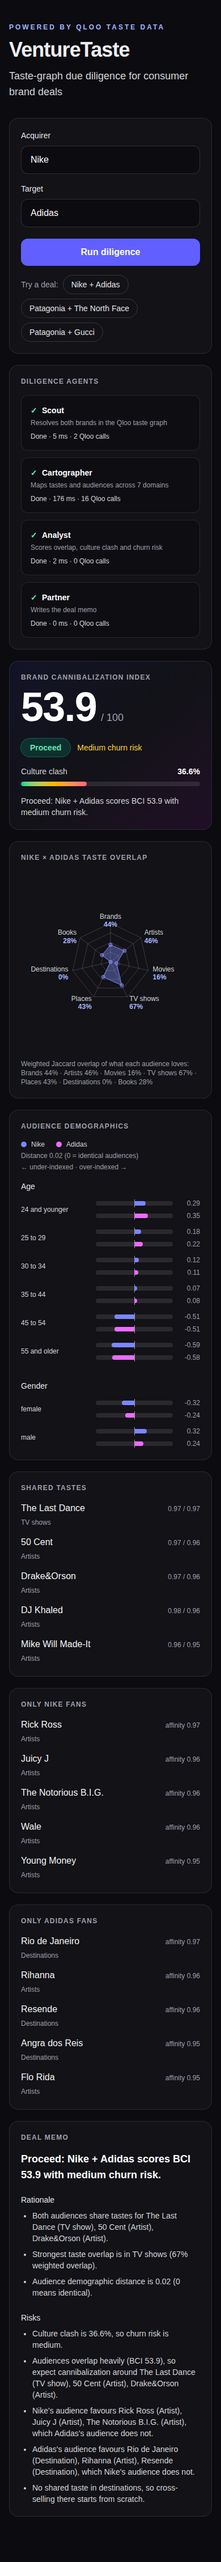
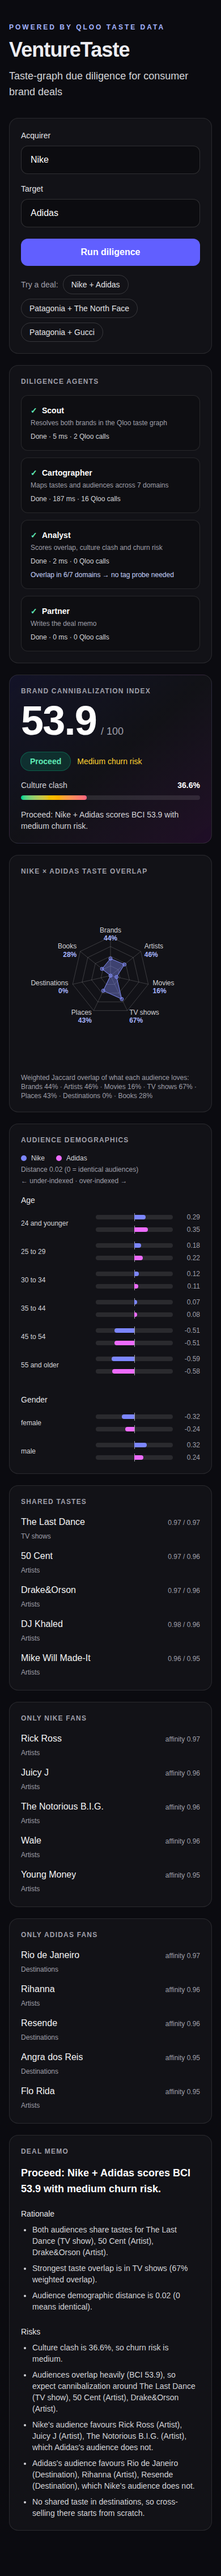
readme: analyst decision, new screenshots

diff --git a/README.md b/README.md
@@ -28,12 +28,12 @@ Responses are cached on disk (`.cache/qloo`), and HTTP 429 is retried with backo
 
 1. **Scout** resolves both brand names to Qloo entities (2 calls).
 2. **Cartographer** fetches insights for all 7 domains plus demographics for both brands (16 calls, in parallel threads). 18 Qloo calls per run with the two searches.
-3. **Analyst** scores the pair with `api/scoring.py` (pure code, no calls).
+3. **Analyst** scores the pair with `api/scoring.py` (pure code) and then decides: if at least 4 of the 7 domains have zero taste overlap, it asks Qloo for each brand's tag affinities (2 extra calls) and reports the top 5 tags both audiences share as "bridging tastes", ranked by the weaker of the two affinities. Bridges are evidence only and never change the BCI, clash score or verdict. Its trace item carries a `decision` string saying which way it went.
 4. **Partner** writes the deal memo from templates: a verdict (`Proceed`, `Proceed with conditions`, `Pass`), rationale and risks that name real Qloo entities from the data.
 
 ## API
 
-`POST /api/diligence` runs the pipeline and returns one JSON report: resolved brands, scores, `domain_overlap` for all 7 domains (no data = 0), top shared and clashing tastes, demographics for both brands, the memo, and the per-agent `trace`.
+`POST /api/diligence` runs the pipeline and returns one JSON report: resolved brands, scores, `domain_overlap` for all 7 domains (no data = 0), top shared and clashing tastes, demographics for both brands, `bridges` (`[{id, name, affinity_acquirer, affinity_target}]`, empty when none) and `probed_tags` (whether the Analyst probed Qloo tags), the memo, and the per-agent `trace` (the Analyst item also has a `decision`).
 
 ```
 curl -s -X POST http://127.0.0.1:8765/api/diligence \
